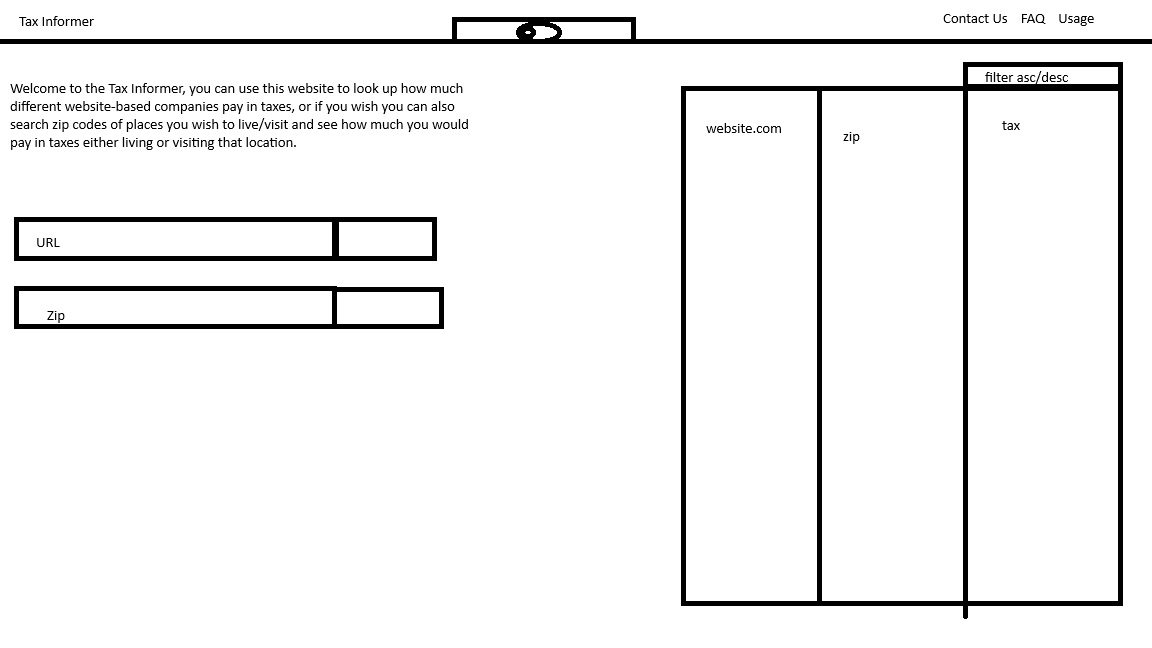
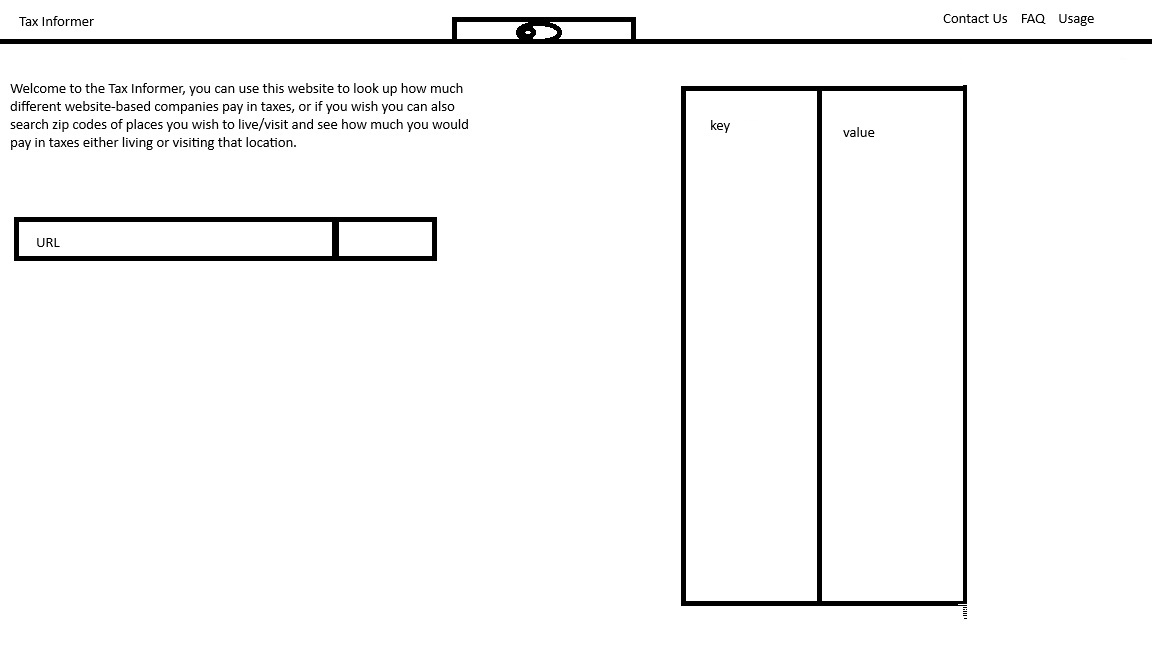
removed aside that was replaced by table, updated site map

diff --git a/index.html b/index.html
@@ -67,11 +67,6 @@
             <button type="submit" id="search-button"
                 class="text-white relative end-20 bg-blue-700 hover:bg-blue-800 focus:ring-4 focus:outline-none focus:ring-blue-300 font-medium rounded-lg text-sm px-4 py-2 dark:bg-blue-600 dark:hover:bg-blue-700 dark:focus:ring-blue-800">Search</button>
         </div>
-        <aside class="list-root">
-            <h2>List of Urls, Zipcodes, and Tax information for the Url searched</h2>
-            <h3 id="return-zip"></h3>
-            <h3 id="return-tax"></h3>
-        </aside>
     </form>
     <div class="relative overflow-x-auto shadow-md sm:rounded-lg">
         <table class="w-full text-sm text-left rtl:text-right text-gray-500 dark:text-gray-400">
